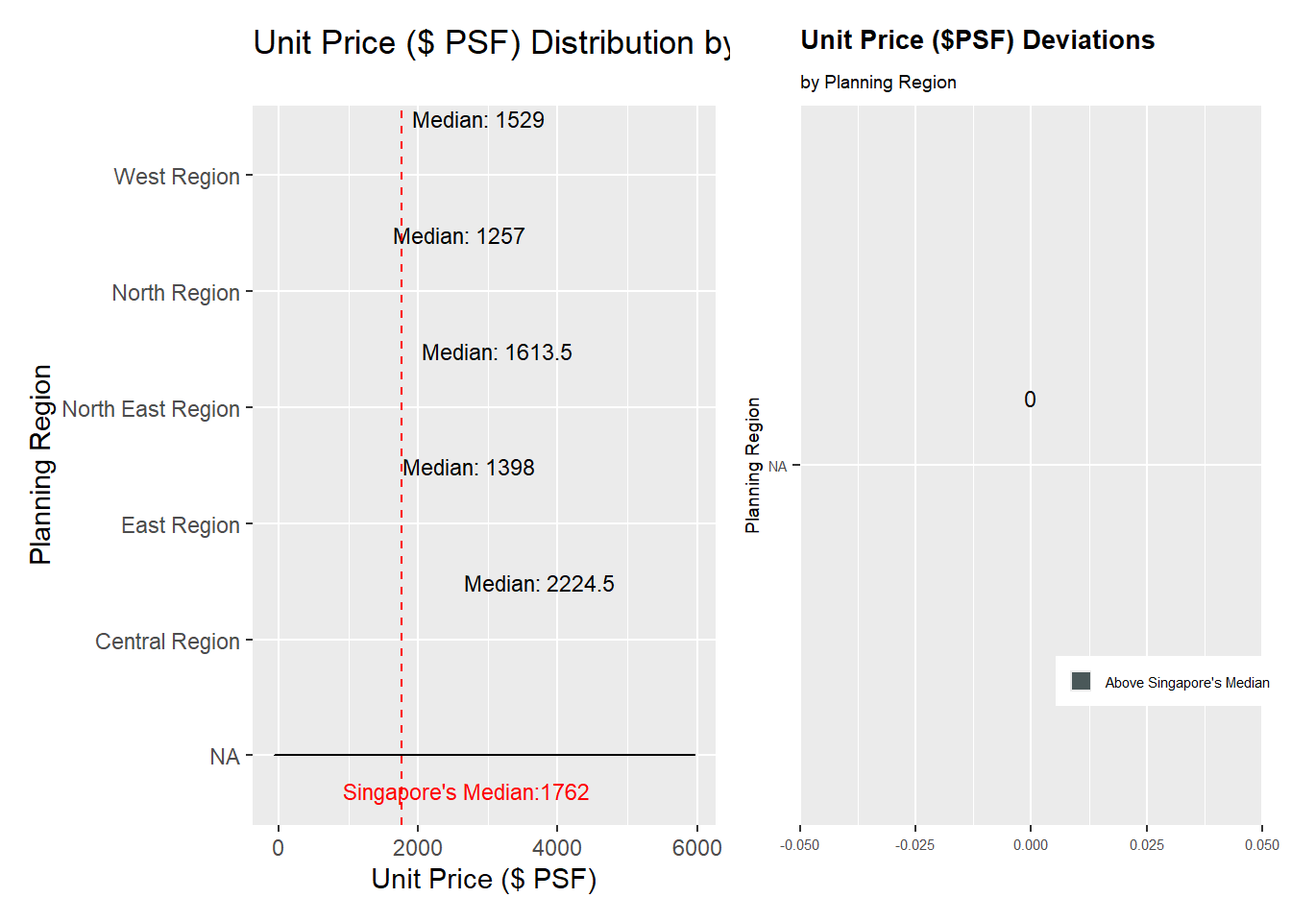
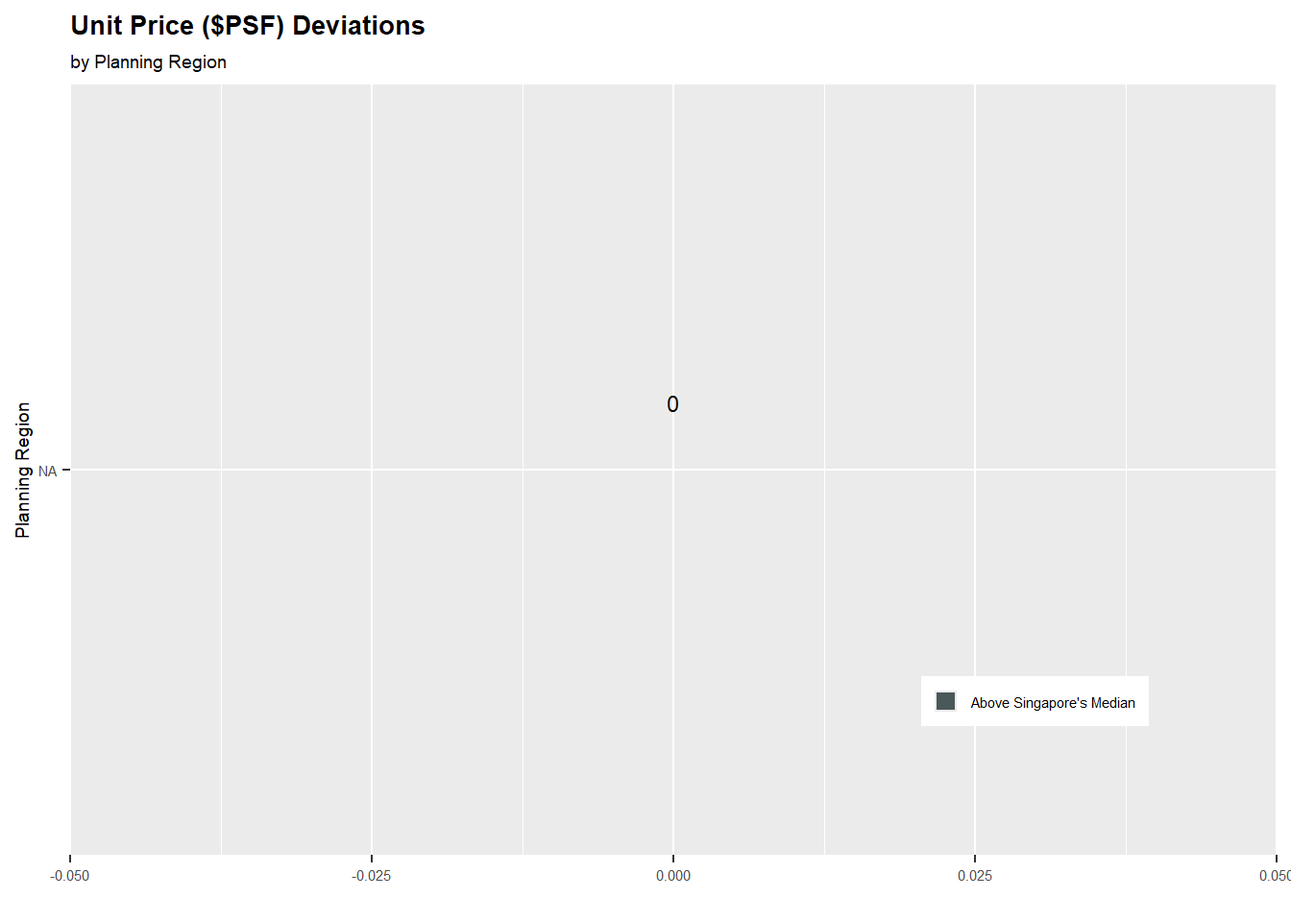
commit

diff --git a/_site/Take-home Exercise/Take-home_Ex02/Take-home_Ex02.html b/_site/Take-home Exercise/Take-home_Ex02/Take-home_Ex02.html
@@ -569,67 +569,30 @@ pre > code.sourceCode > span > a:first-child::before { text-decoration: underlin
 <span id="cb6-14"><a href="#cb6-14" aria-hidden="true" tabindex="-1"></a>                                  ))</span>
 <span id="cb6-15"><a href="#cb6-15" aria-hidden="true" tabindex="-1"></a></span>
 <span id="cb6-16"><a href="#cb6-16" aria-hidden="true" tabindex="-1"></a>combined_ds <span class="ot">&lt;-</span> combined_ds <span class="sc">%&gt;%</span></span>
-<span id="cb6-17"><a href="#cb6-17" aria-hidden="true" tabindex="-1"></a>  <span class="fu">mutate</span>(<span class="st">`</span><span class="at">Planning Region</span><span class="st">`</span> <span class="ot">=</span> <span class="fu">factor</span>(<span class="st">`</span><span class="at">Planning Region</span><span class="st">`</span>, <span class="at">levels =</span> median_values<span class="sc">$</span><span class="st">`</span><span class="at">Planning Region</span><span class="st">`</span>[<span class="fu">order</span>(median_values<span class="sc">$</span>median_value)]))</span>
-<span id="cb6-18"><a href="#cb6-18" aria-hidden="true" tabindex="-1"></a></span>
-<span id="cb6-19"><a href="#cb6-19" aria-hidden="true" tabindex="-1"></a></span>
-<span id="cb6-20"><a href="#cb6-20" aria-hidden="true" tabindex="-1"></a>p1 <span class="ot">&lt;-</span> <span class="fu">ggplot</span>(combined_ds, </span>
-<span id="cb6-21"><a href="#cb6-21" aria-hidden="true" tabindex="-1"></a>       <span class="fu">aes</span>(<span class="at">x =</span> <span class="st">`</span><span class="at">Unit Price ($ PSF)</span><span class="st">`</span>, </span>
-<span id="cb6-22"><a href="#cb6-22" aria-hidden="true" tabindex="-1"></a>           <span class="at">y =</span> <span class="st">`</span><span class="at">Planning Region</span><span class="st">`</span>,</span>
-<span id="cb6-23"><a href="#cb6-23" aria-hidden="true" tabindex="-1"></a>           <span class="at">fill =</span> <span class="st">`</span><span class="at">Planning Region</span><span class="st">`</span>)) <span class="sc">+</span></span>
-<span id="cb6-24"><a href="#cb6-24" aria-hidden="true" tabindex="-1"></a>   <span class="fu">geom_density_ridges</span>(<span class="at">alpha =</span> <span class="fl">0.2</span>, <span class="at">quantile_lines =</span> <span class="cn">TRUE</span>, <span class="at">quantile_fun =</span> <span class="cf">function</span>(x, ...) <span class="fu">median</span>(x))  <span class="sc">+</span></span>
-<span id="cb6-25"><a href="#cb6-25" aria-hidden="true" tabindex="-1"></a>  <span class="fu">geom_text</span>(<span class="at">data =</span> median_values, </span>
-<span id="cb6-26"><a href="#cb6-26" aria-hidden="true" tabindex="-1"></a>            <span class="fu">aes</span>(<span class="at">x =</span> median_value, </span>
-<span id="cb6-27"><a href="#cb6-27" aria-hidden="true" tabindex="-1"></a>                <span class="at">y =</span> <span class="st">`</span><span class="at">Planning Region</span><span class="st">`</span>, </span>
-<span id="cb6-28"><a href="#cb6-28" aria-hidden="true" tabindex="-1"></a>                <span class="at">label =</span> <span class="fu">paste</span>(<span class="st">"Median:"</span>, <span class="fu">round</span>(median_value, <span class="dv">2</span>))),</span>
-<span id="cb6-29"><a href="#cb6-29" aria-hidden="true" tabindex="-1"></a>            <span class="at">hjust =</span> <span class="sc">-</span><span class="fl">0.2</span>, </span>
-<span id="cb6-30"><a href="#cb6-30" aria-hidden="true" tabindex="-1"></a>            <span class="at">vjust =</span> <span class="sc">-</span><span class="fl">2.8</span>, </span>
-<span id="cb6-31"><a href="#cb6-31" aria-hidden="true" tabindex="-1"></a>            <span class="at">color =</span> <span class="st">"black"</span>, </span>
-<span id="cb6-32"><a href="#cb6-32" aria-hidden="true" tabindex="-1"></a>            <span class="at">size =</span> <span class="dv">3</span>) <span class="sc">+</span></span>
-<span id="cb6-33"><a href="#cb6-33" aria-hidden="true" tabindex="-1"></a>  <span class="fu">labs</span>(<span class="at">title =</span> <span class="st">"Unit Price ($ PSF) Distribution by Planning Region"</span>,</span>
-<span id="cb6-34"><a href="#cb6-34" aria-hidden="true" tabindex="-1"></a>       <span class="at">x =</span> <span class="st">"Unit Price ($ PSF)"</span>,</span>
-<span id="cb6-35"><a href="#cb6-35" aria-hidden="true" tabindex="-1"></a>       <span class="at">y =</span> <span class="st">"Planning Region"</span>) <span class="sc">+</span></span>
-<span id="cb6-36"><a href="#cb6-36" aria-hidden="true" tabindex="-1"></a>  <span class="fu">geom_vline</span>(<span class="fu">aes</span>(<span class="at">xintercept =</span> <span class="fu">median</span>(<span class="st">`</span><span class="at">Unit Price ($ PSF)</span><span class="st">`</span>)), <span class="at">col=</span><span class="st">"red"</span>, <span class="at">linewidth=</span><span class="fl">0.5</span>, <span class="at">linetype =</span> <span class="st">"dashed"</span>) <span class="sc">+</span></span>
-<span id="cb6-37"><a href="#cb6-37" aria-hidden="true" tabindex="-1"></a>  <span class="fu">annotate</span>(<span class="st">"text"</span>, <span class="at">x=</span><span class="dv">2700</span>, <span class="at">y=</span><span class="fl">0.7</span>, <span class="at">label=</span><span class="fu">paste0</span>(<span class="st">"Singapore's Median:"</span>,<span class="fu">median</span>(combined_ds<span class="sc">$</span><span class="st">`</span><span class="at">Unit Price ($ PSF)</span><span class="st">`</span>)), </span>
-<span id="cb6-38"><a href="#cb6-38" aria-hidden="true" tabindex="-1"></a>           <span class="at">size=</span><span class="dv">3</span>, <span class="at">color=</span><span class="st">"red"</span>) <span class="sc">+</span></span>
-<span id="cb6-39"><a href="#cb6-39" aria-hidden="true" tabindex="-1"></a>   <span class="fu">guides</span>(<span class="at">fill =</span> <span class="cn">FALSE</span>)  <span class="co"># Remove legend for Planning Region</span></span>
-<span id="cb6-40"><a href="#cb6-40" aria-hidden="true" tabindex="-1"></a>p1</span></code><button title="Copy to Clipboard" class="code-copy-button"><i class="bi"></i></button></pre></div>
-<div class="cell-output-display">
-<div>
-<figure class="figure">
-<p><img src="Take-home_Ex02_files/figure-html/unnamed-chunk-7-1.png" class="img-fluid figure-img" width="672"></p>
-</figure>
-</div>
-</div>
+<span id="cb6-17"><a href="#cb6-17" aria-hidden="true" tabindex="-1"></a>  <span class="fu">mutate</span>(<span class="st">`</span><span class="at">Planning Region</span><span class="st">`</span> <span class="ot">=</span> <span class="fu">factor</span>(<span class="st">`</span><span class="at">Planning Region</span><span class="st">`</span>, <span class="at">levels =</span> median_values<span class="sc">$</span><span class="st">`</span><span class="at">Planning Region</span><span class="st">`</span>[<span class="fu">order</span>(median_values<span class="sc">$</span>median_value)]))</span></code><button title="Copy to Clipboard" class="code-copy-button"><i class="bi"></i></button></pre></div>
 </div>
 <div class="cell">
-<div class="sourceCode cell-code" id="cb7"><pre class="sourceCode r code-with-copy"><code class="sourceCode r"><span id="cb7-1"><a href="#cb7-1" aria-hidden="true" tabindex="-1"></a><span class="co"># Classifying the Median into Above and Below Singapore's Median</span></span>
-<span id="cb7-2"><a href="#cb7-2" aria-hidden="true" tabindex="-1"></a>df_Aavg <span class="ot">&lt;-</span> combined_ds <span class="sc">%&gt;%</span></span>
-<span id="cb7-3"><a href="#cb7-3" aria-hidden="true" tabindex="-1"></a>  <span class="fu">group_by</span>(<span class="st">`</span><span class="at">Planning Region</span><span class="st">`</span>) <span class="sc">%&gt;%</span></span>
-<span id="cb7-4"><a href="#cb7-4" aria-hidden="true" tabindex="-1"></a>  <span class="fu">summarise</span>(<span class="at">avg_Aprice =</span> <span class="fu">median</span>(<span class="st">`</span><span class="at">Unit Price ($ PSF)</span><span class="st">`</span>))</span>
-<span id="cb7-5"><a href="#cb7-5" aria-hidden="true" tabindex="-1"></a>df_Aavg<span class="sc">$</span>p_z <span class="ot">&lt;-</span> <span class="fu">round</span>((df_Aavg<span class="sc">$</span>avg_Aprice <span class="sc">-</span> <span class="fu">median</span>(combined_ds<span class="sc">$</span><span class="st">`</span><span class="at">Unit Price ($ PSF)</span><span class="st">`</span>)), <span class="dv">2</span>)</span>
-<span id="cb7-6"><a href="#cb7-6" aria-hidden="true" tabindex="-1"></a>df_Aavg<span class="sc">$</span>p_ztype <span class="ot">&lt;-</span> <span class="fu">ifelse</span>(df_Aavg<span class="sc">$</span>p_z <span class="sc">&lt;</span> <span class="dv">0</span>, <span class="st">"below"</span>, <span class="st">"above"</span>)</span>
-<span id="cb7-7"><a href="#cb7-7" aria-hidden="true" tabindex="-1"></a>df_Aavg <span class="ot">&lt;-</span> df_Aavg[<span class="fu">order</span>(df_Aavg<span class="sc">$</span>p_z), ]</span>
-<span id="cb7-8"><a href="#cb7-8" aria-hidden="true" tabindex="-1"></a>df_Aavg<span class="sc">$</span><span class="st">`</span><span class="at">Planning Region</span><span class="st">`</span> <span class="ot">&lt;-</span> <span class="fu">factor</span>(df_Aavg<span class="sc">$</span><span class="st">`</span><span class="at">Planning Region</span><span class="st">`</span>, <span class="at">levels =</span> df_Aavg<span class="sc">$</span><span class="st">`</span><span class="at">Planning Region</span><span class="st">`</span>)</span>
-<span id="cb7-9"><a href="#cb7-9" aria-hidden="true" tabindex="-1"></a></span>
-<span id="cb7-10"><a href="#cb7-10" aria-hidden="true" tabindex="-1"></a>p2 <span class="ot">&lt;-</span> <span class="fu">ggplot</span>(df_Aavg, <span class="fu">aes</span>(<span class="at">x =</span> <span class="st">`</span><span class="at">Planning Region</span><span class="st">`</span>, <span class="at">y =</span> p_z, <span class="at">label =</span> p_z)) <span class="sc">+</span></span>
-<span id="cb7-11"><a href="#cb7-11" aria-hidden="true" tabindex="-1"></a>  <span class="fu">geom_bar</span>(<span class="at">stat =</span> <span class="st">"identity"</span>, <span class="fu">aes</span>(<span class="at">fill =</span> p_ztype), <span class="at">position =</span> <span class="fu">position_dodge2</span>(<span class="at">width =</span> <span class="dv">2</span>), <span class="at">width =</span> <span class="fl">0.8</span>) <span class="sc">+</span></span>
-<span id="cb7-12"><a href="#cb7-12" aria-hidden="true" tabindex="-1"></a>  <span class="fu">scale_fill_manual</span>(<span class="at">name =</span> <span class="st">"Average Price"</span>, <span class="at">labels =</span> <span class="fu">c</span>(<span class="st">"Above Singapore's Median"</span>, <span class="st">"Below Singapore's Median"</span>), <span class="at">values =</span> <span class="fu">c</span>(<span class="st">"below"</span> <span class="ot">=</span> <span class="st">"#C83E4D"</span>, <span class="st">"above"</span> <span class="ot">=</span> <span class="st">"#4A5859"</span>)) <span class="sc">+</span></span>
-<span id="cb7-13"><a href="#cb7-13" aria-hidden="true" tabindex="-1"></a>  <span class="fu">labs</span>(<span class="at">title =</span> <span class="st">"Unit Price ($PSF) Deviations"</span>, <span class="at">y =</span> <span class="st">""</span>, <span class="at">subtitle =</span> <span class="st">"by Planning Region"</span>) <span class="sc">+</span></span>
-<span id="cb7-14"><a href="#cb7-14" aria-hidden="true" tabindex="-1"></a>  <span class="fu">coord_flip</span>() <span class="sc">+</span></span>
-<span id="cb7-15"><a href="#cb7-15" aria-hidden="true" tabindex="-1"></a>  <span class="fu">theme</span>(<span class="at">legend.position =</span> <span class="st">"None"</span>, <span class="at">text =</span> <span class="fu">element_text</span>(<span class="at">size =</span> <span class="dv">8</span>), <span class="at">plot.title =</span> <span class="fu">element_text</span>(<span class="at">size =</span> <span class="dv">10</span>, <span class="at">face =</span> <span class="st">"bold"</span>))  <span class="sc">+</span></span>
-<span id="cb7-16"><a href="#cb7-16" aria-hidden="true" tabindex="-1"></a>  <span class="fu">theme</span>(<span class="at">text =</span> <span class="fu">element_text</span>(<span class="at">size =</span> <span class="dv">7</span>),</span>
-<span id="cb7-17"><a href="#cb7-17" aria-hidden="true" tabindex="-1"></a>        <span class="at">legend.title =</span> <span class="fu">element_blank</span>(),</span>
-<span id="cb7-18"><a href="#cb7-18" aria-hidden="true" tabindex="-1"></a>        <span class="at">legend.position =</span> <span class="fu">c</span>(<span class="fl">0.8</span>, <span class="fl">0.2</span>),</span>
-<span id="cb7-19"><a href="#cb7-19" aria-hidden="true" tabindex="-1"></a>        <span class="at">legend.key.size =</span> <span class="fu">unit</span>(<span class="fl">0.3</span>, <span class="st">'cm'</span>),</span>
-<span id="cb7-20"><a href="#cb7-20" aria-hidden="true" tabindex="-1"></a>        <span class="at">legend.key.height =</span> <span class="fu">unit</span>(<span class="fl">0.3</span>, <span class="st">'cm'</span>),</span>
-<span id="cb7-21"><a href="#cb7-21" aria-hidden="true" tabindex="-1"></a>        <span class="at">legend.key.width =</span> <span class="fu">unit</span>(<span class="fl">0.3</span>, <span class="st">'cm'</span>)) <span class="sc">+</span></span>
-<span id="cb7-22"><a href="#cb7-22" aria-hidden="true" tabindex="-1"></a>  <span class="fu">geom_text</span>(<span class="fu">aes</span>(<span class="at">x =</span> <span class="st">`</span><span class="at">Planning Region</span><span class="st">`</span>, </span>
-<span id="cb7-23"><a href="#cb7-23" aria-hidden="true" tabindex="-1"></a>                <span class="at">y =</span> df_Aavg<span class="sc">$</span>p_z, </span>
-<span id="cb7-24"><a href="#cb7-24" aria-hidden="true" tabindex="-1"></a>                <span class="at">label =</span> <span class="fu">abs</span>(df_Aavg<span class="sc">$</span>p_z)),</span>
-<span id="cb7-25"><a href="#cb7-25" aria-hidden="true" tabindex="-1"></a>            <span class="at">hjust =</span> <span class="fl">0.5</span>,</span>
-<span id="cb7-26"><a href="#cb7-26" aria-hidden="true" tabindex="-1"></a>            <span class="at">vjust =</span> <span class="sc">-</span><span class="fl">3.4</span>,</span>
-<span id="cb7-27"><a href="#cb7-27" aria-hidden="true" tabindex="-1"></a>            <span class="at">size =</span> <span class="dv">3</span>)</span>
-<span id="cb7-28"><a href="#cb7-28" aria-hidden="true" tabindex="-1"></a>p2</span></code><button title="Copy to Clipboard" class="code-copy-button"><i class="bi"></i></button></pre></div>
+<div class="sourceCode cell-code" id="cb7"><pre class="sourceCode r code-with-copy"><code class="sourceCode r"><span id="cb7-1"><a href="#cb7-1" aria-hidden="true" tabindex="-1"></a><span class="fu">ggplot</span>(combined_ds, </span>
+<span id="cb7-2"><a href="#cb7-2" aria-hidden="true" tabindex="-1"></a>       <span class="fu">aes</span>(<span class="at">x =</span> <span class="st">`</span><span class="at">Unit Price ($ PSF)</span><span class="st">`</span>, </span>
+<span id="cb7-3"><a href="#cb7-3" aria-hidden="true" tabindex="-1"></a>           <span class="at">y =</span> <span class="st">`</span><span class="at">Planning Region</span><span class="st">`</span>,</span>
+<span id="cb7-4"><a href="#cb7-4" aria-hidden="true" tabindex="-1"></a>           <span class="at">fill =</span> <span class="st">`</span><span class="at">Planning Region</span><span class="st">`</span>)) <span class="sc">+</span></span>
+<span id="cb7-5"><a href="#cb7-5" aria-hidden="true" tabindex="-1"></a>   <span class="fu">geom_density_ridges</span>(<span class="at">alpha =</span> <span class="fl">0.2</span>, <span class="at">quantile_lines =</span> <span class="cn">TRUE</span>, <span class="at">quantile_fun =</span> <span class="cf">function</span>(x, ...) <span class="fu">median</span>(x))  <span class="sc">+</span></span>
+<span id="cb7-6"><a href="#cb7-6" aria-hidden="true" tabindex="-1"></a>  <span class="fu">geom_text</span>(<span class="at">data =</span> median_values, </span>
+<span id="cb7-7"><a href="#cb7-7" aria-hidden="true" tabindex="-1"></a>            <span class="fu">aes</span>(<span class="at">x =</span> median_value, </span>
+<span id="cb7-8"><a href="#cb7-8" aria-hidden="true" tabindex="-1"></a>                <span class="at">y =</span> <span class="st">`</span><span class="at">Planning Region</span><span class="st">`</span>, </span>
+<span id="cb7-9"><a href="#cb7-9" aria-hidden="true" tabindex="-1"></a>                <span class="at">label =</span> <span class="fu">paste</span>(<span class="st">"Median:"</span>, <span class="fu">round</span>(median_value, <span class="dv">2</span>))),</span>
+<span id="cb7-10"><a href="#cb7-10" aria-hidden="true" tabindex="-1"></a>            <span class="at">hjust =</span> <span class="sc">-</span><span class="fl">0.2</span>, </span>
+<span id="cb7-11"><a href="#cb7-11" aria-hidden="true" tabindex="-1"></a>            <span class="at">vjust =</span> <span class="sc">-</span><span class="fl">2.8</span>, </span>
+<span id="cb7-12"><a href="#cb7-12" aria-hidden="true" tabindex="-1"></a>            <span class="at">color =</span> <span class="st">"black"</span>, </span>
+<span id="cb7-13"><a href="#cb7-13" aria-hidden="true" tabindex="-1"></a>            <span class="at">size =</span> <span class="dv">3</span>) <span class="sc">+</span></span>
+<span id="cb7-14"><a href="#cb7-14" aria-hidden="true" tabindex="-1"></a>  <span class="fu">labs</span>(<span class="at">title =</span> <span class="st">"Unit Price ($ PSF) Distribution by Planning Region"</span>,</span>
+<span id="cb7-15"><a href="#cb7-15" aria-hidden="true" tabindex="-1"></a>       <span class="at">x =</span> <span class="st">"Unit Price ($ PSF)"</span>,</span>
+<span id="cb7-16"><a href="#cb7-16" aria-hidden="true" tabindex="-1"></a>       <span class="at">y =</span> <span class="st">"Planning Region"</span>) <span class="sc">+</span></span>
+<span id="cb7-17"><a href="#cb7-17" aria-hidden="true" tabindex="-1"></a>  <span class="fu">geom_vline</span>(<span class="fu">aes</span>(<span class="at">xintercept =</span> <span class="fu">median</span>(<span class="st">`</span><span class="at">Unit Price ($ PSF)</span><span class="st">`</span>)), <span class="at">col=</span><span class="st">"red"</span>, <span class="at">linewidth=</span><span class="fl">0.5</span>, <span class="at">linetype =</span> <span class="st">"dashed"</span>) <span class="sc">+</span></span>
+<span id="cb7-18"><a href="#cb7-18" aria-hidden="true" tabindex="-1"></a>  <span class="fu">annotate</span>(<span class="st">"text"</span>, <span class="at">x=</span><span class="dv">2700</span>, <span class="at">y=</span><span class="fl">0.7</span>, <span class="at">label=</span><span class="fu">paste0</span>(<span class="st">"Singapore's Median:"</span>,<span class="fu">median</span>(combined_ds<span class="sc">$</span><span class="st">`</span><span class="at">Unit Price ($ PSF)</span><span class="st">`</span>)), </span>
+<span id="cb7-19"><a href="#cb7-19" aria-hidden="true" tabindex="-1"></a>           <span class="at">size=</span><span class="dv">3</span>, <span class="at">color=</span><span class="st">"red"</span>) <span class="sc">+</span></span>
+<span id="cb7-20"><a href="#cb7-20" aria-hidden="true" tabindex="-1"></a>   <span class="fu">guides</span>(<span class="at">fill =</span> <span class="cn">FALSE</span>) <span class="sc">+</span> <span class="co"># Remove legend for Planning Region</span></span>
+<span id="cb7-21"><a href="#cb7-21" aria-hidden="true" tabindex="-1"></a>  <span class="fu">xlim</span>(<span class="dv">0</span>, <span class="dv">4000</span>)  <span class="co"># Limit x-axis to 4000</span></span></code><button title="Copy to Clipboard" class="code-copy-button"><i class="bi"></i></button></pre></div>
 <div class="cell-output-display">
 <div>
 <figure class="figure">
@@ -639,7 +602,34 @@ pre > code.sourceCode > span > a:first-child::before { text-decoration: underlin
 </div>
 </div>
 <div class="cell">
-<div class="sourceCode cell-code" id="cb8"><pre class="sourceCode r code-with-copy"><code class="sourceCode r"><span id="cb8-1"><a href="#cb8-1" aria-hidden="true" tabindex="-1"></a>p1 <span class="sc">+</span> p2</span></code><button title="Copy to Clipboard" class="code-copy-button"><i class="bi"></i></button></pre></div>
+<div class="sourceCode cell-code" id="cb8"><pre class="sourceCode r code-with-copy"><code class="sourceCode r"><span id="cb8-1"><a href="#cb8-1" aria-hidden="true" tabindex="-1"></a><span class="co"># Classifying the Median into Above and Below Singapore's Median</span></span>
+<span id="cb8-2"><a href="#cb8-2" aria-hidden="true" tabindex="-1"></a>df_Aavg <span class="ot">&lt;-</span> combined_ds <span class="sc">%&gt;%</span></span>
+<span id="cb8-3"><a href="#cb8-3" aria-hidden="true" tabindex="-1"></a>  <span class="fu">group_by</span>(<span class="st">`</span><span class="at">Planning Region</span><span class="st">`</span>) <span class="sc">%&gt;%</span></span>
+<span id="cb8-4"><a href="#cb8-4" aria-hidden="true" tabindex="-1"></a>  <span class="fu">summarise</span>(<span class="at">avg_Aprice =</span> <span class="fu">median</span>(<span class="st">`</span><span class="at">Unit Price ($ PSF)</span><span class="st">`</span>))</span>
+<span id="cb8-5"><a href="#cb8-5" aria-hidden="true" tabindex="-1"></a>df_Aavg<span class="sc">$</span>p_z <span class="ot">&lt;-</span> <span class="fu">round</span>((df_Aavg<span class="sc">$</span>avg_Aprice <span class="sc">-</span> <span class="fu">median</span>(combined_ds<span class="sc">$</span><span class="st">`</span><span class="at">Unit Price ($ PSF)</span><span class="st">`</span>)), <span class="dv">2</span>)</span>
+<span id="cb8-6"><a href="#cb8-6" aria-hidden="true" tabindex="-1"></a>df_Aavg<span class="sc">$</span>p_ztype <span class="ot">&lt;-</span> <span class="fu">ifelse</span>(df_Aavg<span class="sc">$</span>p_z <span class="sc">&lt;</span> <span class="dv">0</span>, <span class="st">"below"</span>, <span class="st">"above"</span>)</span>
+<span id="cb8-7"><a href="#cb8-7" aria-hidden="true" tabindex="-1"></a>df_Aavg <span class="ot">&lt;-</span> df_Aavg[<span class="fu">order</span>(df_Aavg<span class="sc">$</span>p_z), ]</span>
+<span id="cb8-8"><a href="#cb8-8" aria-hidden="true" tabindex="-1"></a>df_Aavg<span class="sc">$</span><span class="st">`</span><span class="at">Planning Region</span><span class="st">`</span> <span class="ot">&lt;-</span> <span class="fu">factor</span>(df_Aavg<span class="sc">$</span><span class="st">`</span><span class="at">Planning Region</span><span class="st">`</span>, <span class="at">levels =</span> df_Aavg<span class="sc">$</span><span class="st">`</span><span class="at">Planning Region</span><span class="st">`</span>)</span>
+<span id="cb8-9"><a href="#cb8-9" aria-hidden="true" tabindex="-1"></a></span>
+<span id="cb8-10"><a href="#cb8-10" aria-hidden="true" tabindex="-1"></a>p2 <span class="ot">&lt;-</span> <span class="fu">ggplot</span>(df_Aavg, <span class="fu">aes</span>(<span class="at">x =</span> <span class="st">`</span><span class="at">Planning Region</span><span class="st">`</span>, <span class="at">y =</span> p_z, <span class="at">label =</span> p_z)) <span class="sc">+</span></span>
+<span id="cb8-11"><a href="#cb8-11" aria-hidden="true" tabindex="-1"></a>  <span class="fu">geom_bar</span>(<span class="at">stat =</span> <span class="st">"identity"</span>, <span class="fu">aes</span>(<span class="at">fill =</span> p_ztype), <span class="at">position =</span> <span class="fu">position_dodge2</span>(<span class="at">width =</span> <span class="dv">2</span>), <span class="at">width =</span> <span class="fl">0.8</span>) <span class="sc">+</span></span>
+<span id="cb8-12"><a href="#cb8-12" aria-hidden="true" tabindex="-1"></a>  <span class="fu">scale_fill_manual</span>(<span class="at">name =</span> <span class="st">"Average Price"</span>, <span class="at">labels =</span> <span class="fu">c</span>(<span class="st">"Above Singapore's Median"</span>, <span class="st">"Below Singapore's Median"</span>), <span class="at">values =</span> <span class="fu">c</span>(<span class="st">"below"</span> <span class="ot">=</span> <span class="st">"#C83E4D"</span>, <span class="st">"above"</span> <span class="ot">=</span> <span class="st">"#4A5859"</span>)) <span class="sc">+</span></span>
+<span id="cb8-13"><a href="#cb8-13" aria-hidden="true" tabindex="-1"></a>  <span class="fu">labs</span>(<span class="at">title =</span> <span class="st">"Unit Price ($PSF) Deviations"</span>, <span class="at">y =</span> <span class="st">""</span>, <span class="at">subtitle =</span> <span class="st">"by Planning Region"</span>) <span class="sc">+</span></span>
+<span id="cb8-14"><a href="#cb8-14" aria-hidden="true" tabindex="-1"></a>  <span class="fu">coord_flip</span>() <span class="sc">+</span></span>
+<span id="cb8-15"><a href="#cb8-15" aria-hidden="true" tabindex="-1"></a>  <span class="fu">theme</span>(<span class="at">legend.position =</span> <span class="st">"None"</span>, <span class="at">text =</span> <span class="fu">element_text</span>(<span class="at">size =</span> <span class="dv">8</span>), <span class="at">plot.title =</span> <span class="fu">element_text</span>(<span class="at">size =</span> <span class="dv">10</span>, <span class="at">face =</span> <span class="st">"bold"</span>))  <span class="sc">+</span></span>
+<span id="cb8-16"><a href="#cb8-16" aria-hidden="true" tabindex="-1"></a>  <span class="fu">theme</span>(<span class="at">text =</span> <span class="fu">element_text</span>(<span class="at">size =</span> <span class="dv">7</span>),</span>
+<span id="cb8-17"><a href="#cb8-17" aria-hidden="true" tabindex="-1"></a>        <span class="at">legend.title =</span> <span class="fu">element_blank</span>(),</span>
+<span id="cb8-18"><a href="#cb8-18" aria-hidden="true" tabindex="-1"></a>        <span class="at">legend.position =</span> <span class="fu">c</span>(<span class="fl">0.8</span>, <span class="fl">0.2</span>),</span>
+<span id="cb8-19"><a href="#cb8-19" aria-hidden="true" tabindex="-1"></a>        <span class="at">legend.key.size =</span> <span class="fu">unit</span>(<span class="fl">0.3</span>, <span class="st">'cm'</span>),</span>
+<span id="cb8-20"><a href="#cb8-20" aria-hidden="true" tabindex="-1"></a>        <span class="at">legend.key.height =</span> <span class="fu">unit</span>(<span class="fl">0.3</span>, <span class="st">'cm'</span>),</span>
+<span id="cb8-21"><a href="#cb8-21" aria-hidden="true" tabindex="-1"></a>        <span class="at">legend.key.width =</span> <span class="fu">unit</span>(<span class="fl">0.3</span>, <span class="st">'cm'</span>)) <span class="sc">+</span></span>
+<span id="cb8-22"><a href="#cb8-22" aria-hidden="true" tabindex="-1"></a>  <span class="fu">geom_text</span>(<span class="fu">aes</span>(<span class="at">x =</span> <span class="st">`</span><span class="at">Planning Region</span><span class="st">`</span>, </span>
+<span id="cb8-23"><a href="#cb8-23" aria-hidden="true" tabindex="-1"></a>                <span class="at">y =</span> df_Aavg<span class="sc">$</span>p_z, </span>
+<span id="cb8-24"><a href="#cb8-24" aria-hidden="true" tabindex="-1"></a>                <span class="at">label =</span> <span class="fu">abs</span>(df_Aavg<span class="sc">$</span>p_z)),</span>
+<span id="cb8-25"><a href="#cb8-25" aria-hidden="true" tabindex="-1"></a>            <span class="at">hjust =</span> <span class="fl">0.5</span>,</span>
+<span id="cb8-26"><a href="#cb8-26" aria-hidden="true" tabindex="-1"></a>            <span class="at">vjust =</span> <span class="sc">-</span><span class="fl">3.4</span>,</span>
+<span id="cb8-27"><a href="#cb8-27" aria-hidden="true" tabindex="-1"></a>            <span class="at">size =</span> <span class="dv">3</span>)</span>
+<span id="cb8-28"><a href="#cb8-28" aria-hidden="true" tabindex="-1"></a>p2</span></code><button title="Copy to Clipboard" class="code-copy-button"><i class="bi"></i></button></pre></div>
 <div class="cell-output-display">
 <div>
 <figure class="figure">
